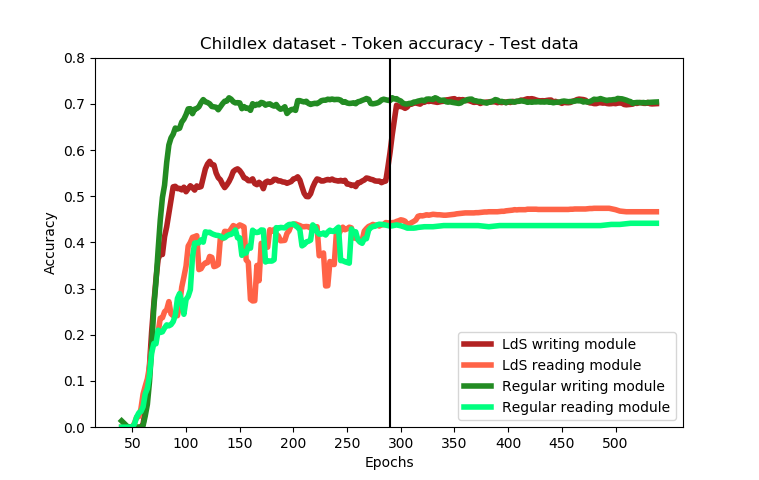
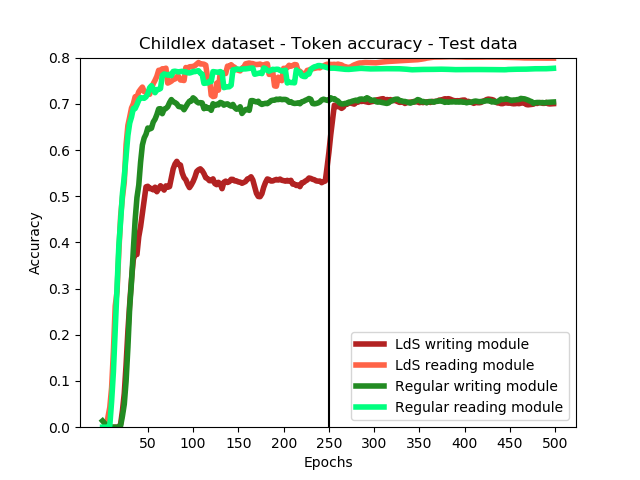
some edits

diff --git a/Code/run.py b/Code/run.py
@@ -90,7 +90,7 @@ if __name__ == '__main__':
                         help='The feature space dimensionality for the input characters')
     parser.add_argument('--output_embed_size', default=64, type=int,
                         help='The feature space dimensionality for the output characters')
-    parser.add_argument('--num_nodes', default=128, type=int,
+    parser.add_argument('--num_nodes', default=64, type=int,
                         help='The number of LSTM nodes per layer in both encoder and decoder')
     parser.add_argument('--num_layers', default=1, type=int,
                         help='The number of layers in both encoder and decoder')

diff --git a/Code/bLSTM.py b/Code/bLSTM.py
@@ -150,7 +150,7 @@ class bLSTM(object):
 
 
 			# Fully connected layer of the decoder outputs to the predictions
-			self.fc1 = tf.contrib.layers.fully_connected(self.dec_outputs, num_outputs=1024, activation_fn=self.activation_fn) 
+			self.fc1 = tf.contrib.layers.fully_connected(self.dec_outputs, num_outputs=64, activation_fn=self.activation_fn) 
 			self.drop = tf.contrib.layers.dropout(self.fc1, self.keep_prob) 
 
 			self.logits = tf.contrib.layers.fully_connected(self.drop,num_outputs=self.num_classes, activation_fn=self.activation_fn)
